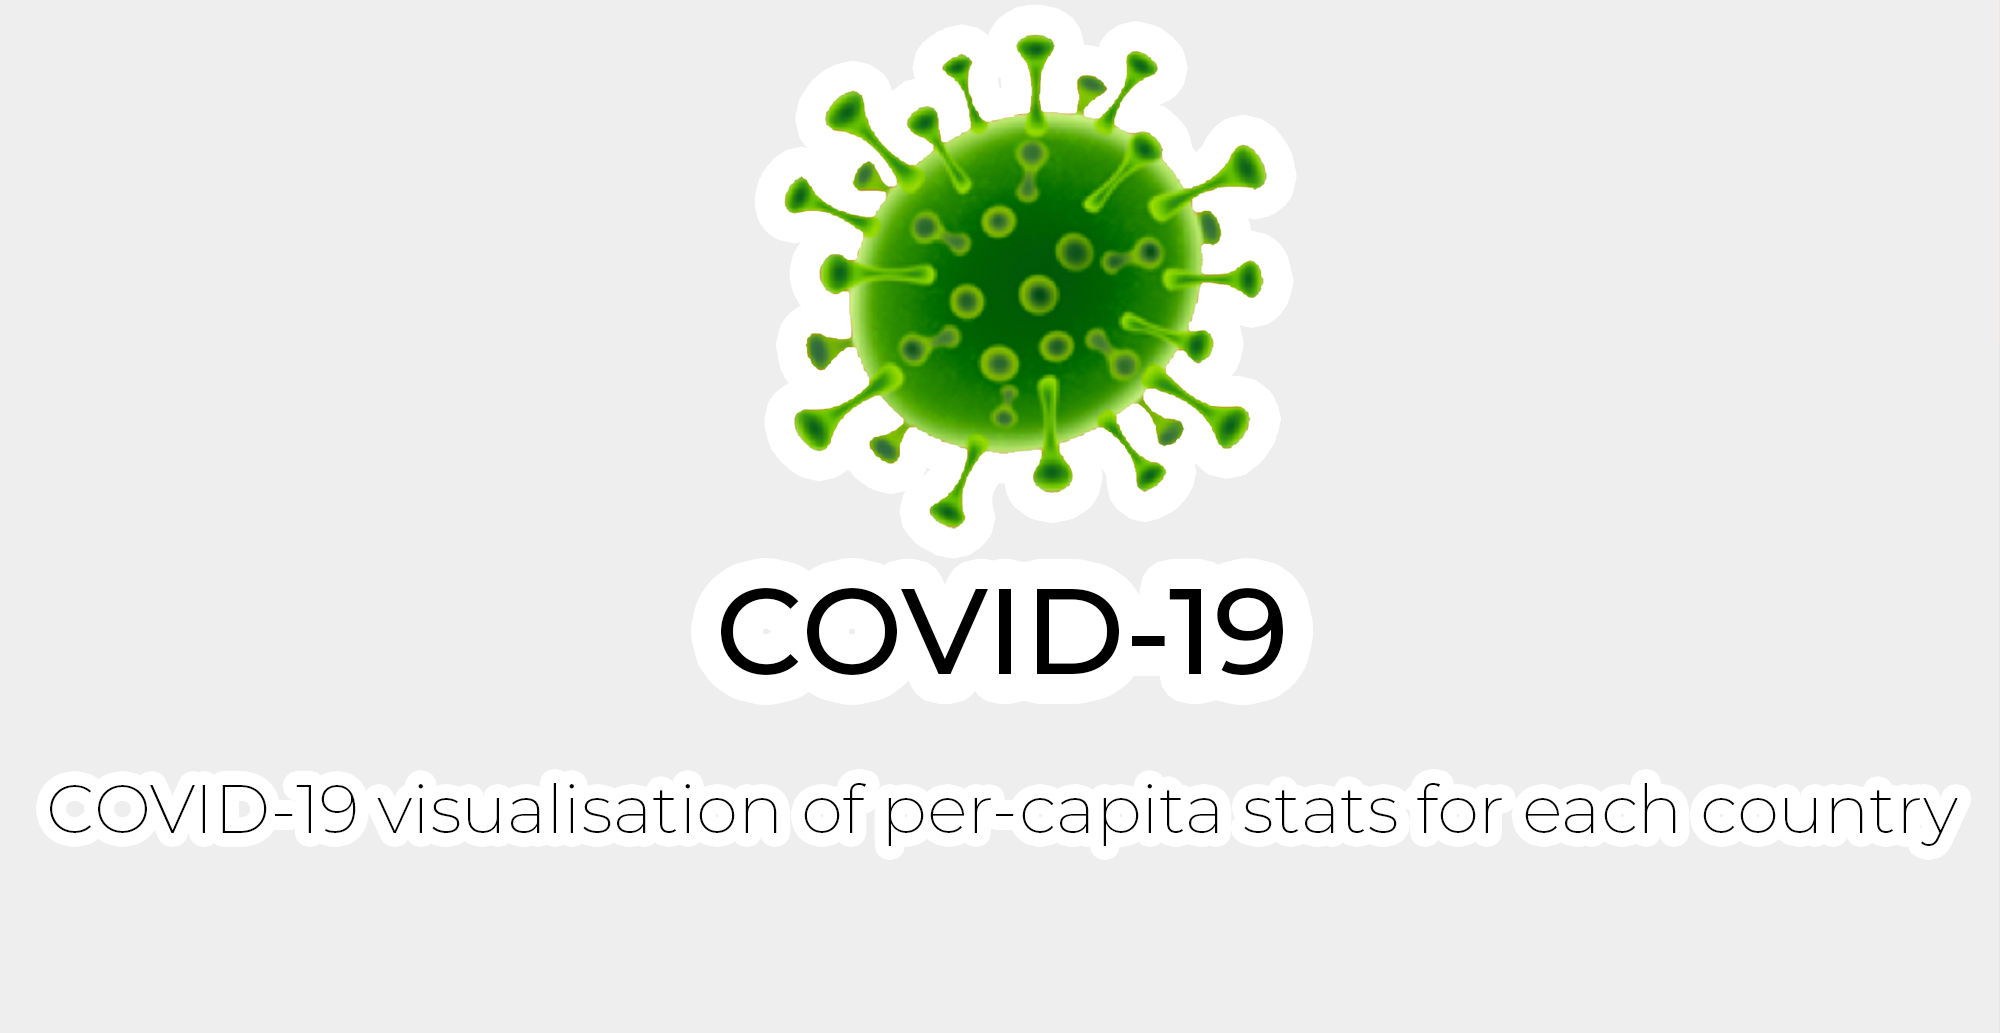
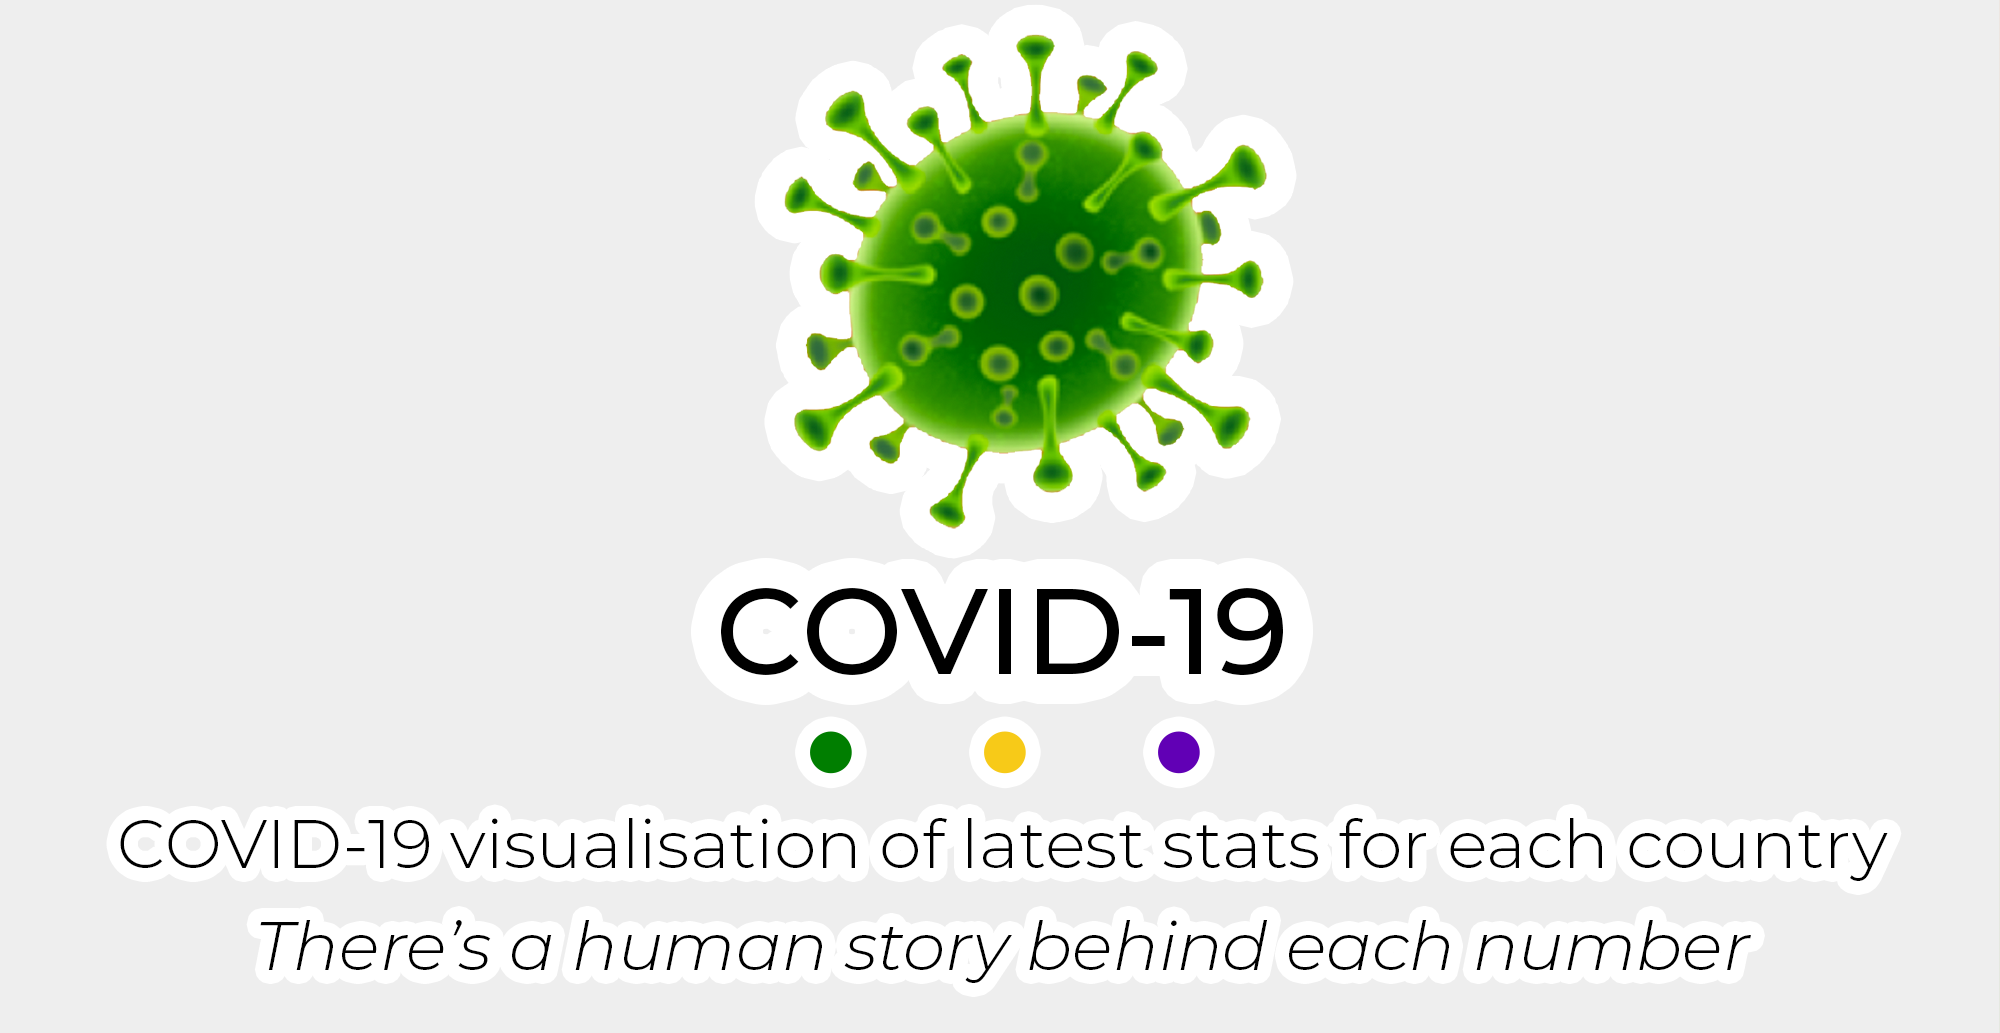
:zap: Make the project's purpose consistent

diff --git a/README.md b/README.md
@@ -1,8 +1,8 @@
-![COVID-19](https://raw.githubusercontent.com/dreamyguy/covid-19/master/docs/covid-19-logo-github-full-width.png "COVID-19 visualise latest stats for each country")
+![COVID-19](https://raw.githubusercontent.com/dreamyguy/covid-19/master/docs/covid-19-logo-github-full-width.png "COVID-19 visualisation of latest stats for each country")
 
 # 🦠 COVID-19
 
-> COVID-19 visualise latest stats for each country
+> COVID-19 visualisation of latest stats for each country
 
 [![Build Status](https://travis-ci.com/dreamyguy/covid-19.svg?branch=master)](https://travis-ci.com/dreamyguy/covid-19) [![Node Version](https://img.shields.io/badge/node-v12.14.0-brightgreen.svg)](https://github.com/nodejs/node/releases/tag/v12.14.0) [![MIT Licence](https://img.shields.io/badge/license-MIT-blue.svg)](https://github.com/dreamyguy/covid-19/blob/master/LICENSE)
 
